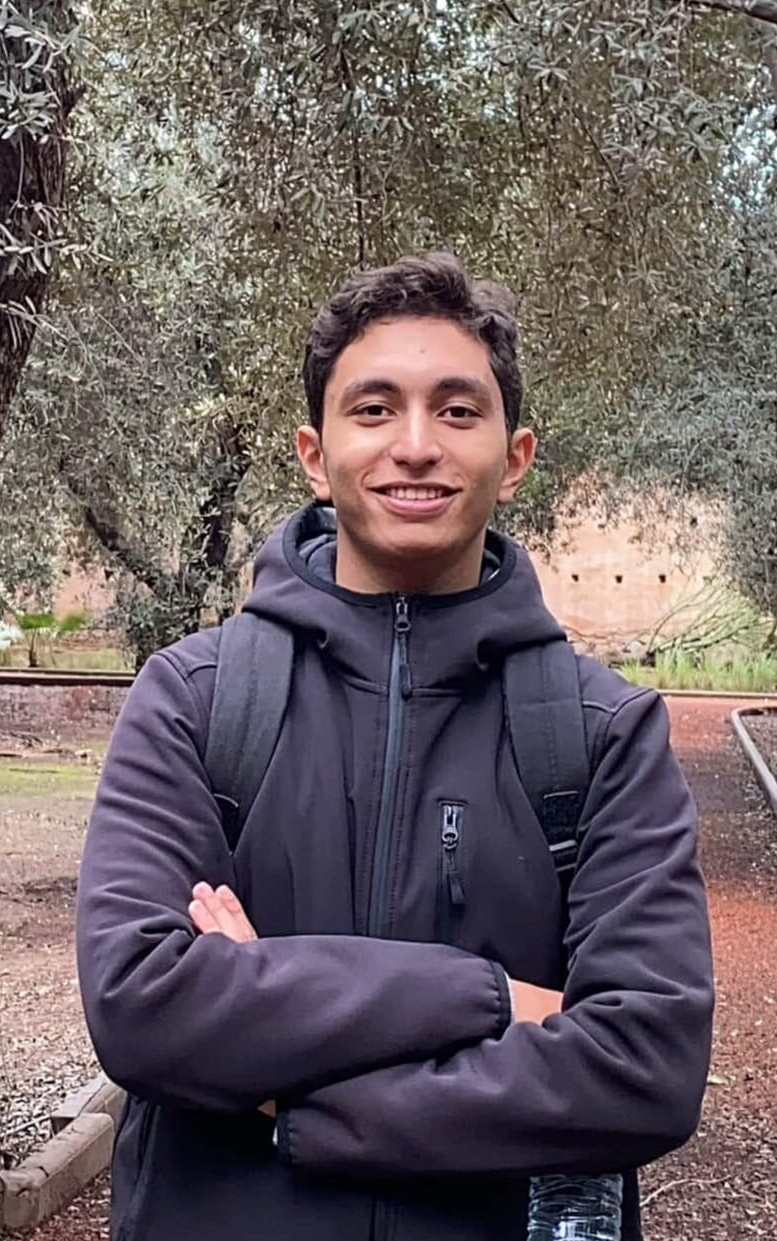
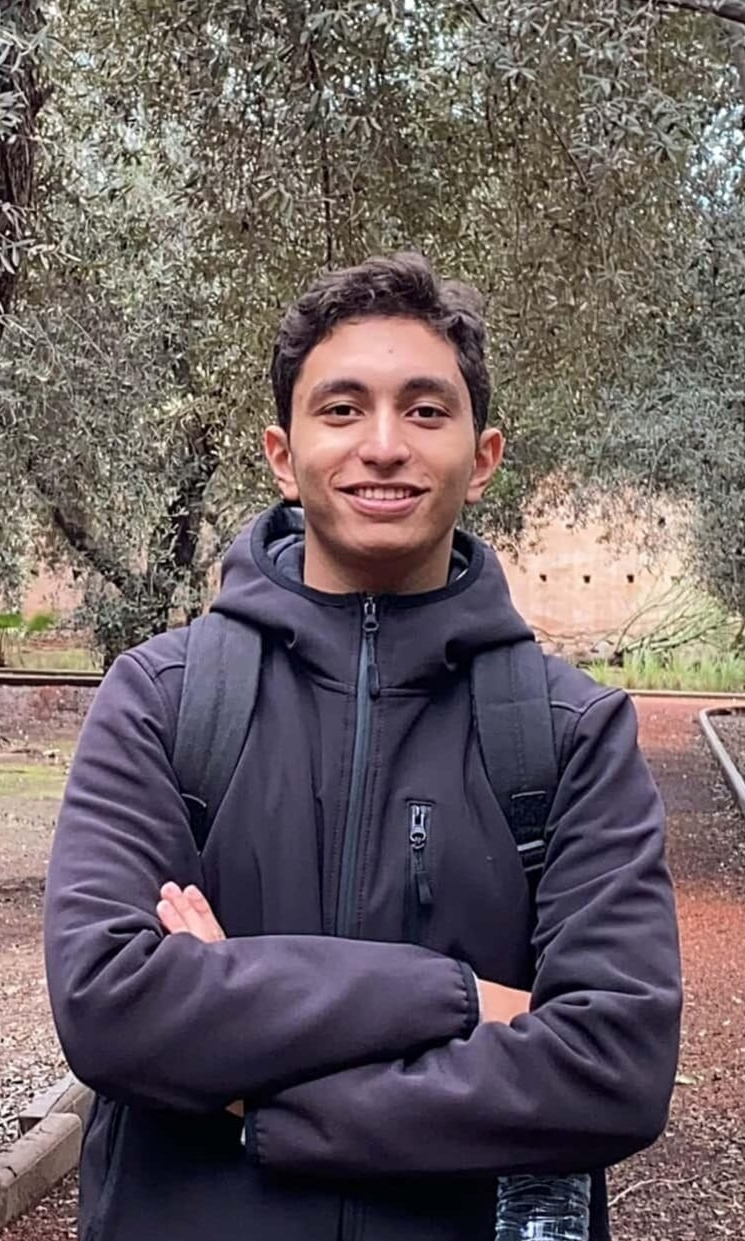
Changed some data

diff --git a/src/data/portfolioData.ts b/src/data/portfolioData.ts
@@ -15,7 +15,7 @@ export const portfolioData: PortfolioData = {
             "CTF Player",
             "Open-source Contributor"
         ],
-        profilePicture: "/assets/pictures/picture1.png",
+        profilePicture: "/assets/pictures/sbai.jpeg",
         resume: "/assets/resume/resume.pdf"
     },
     education: [
@@ -52,7 +52,7 @@ export const portfolioData: PortfolioData = {
         security: ["Metasploit", "Nmap", "Burp Suite"],
         operatingSystems: ["Windows", "Linux"],
         design: ["Merise", "UML"],
-        virtualization: ["VirtualBox", "VMware"],
+        virtualization: ["VirtualBox", "VMware", "QEMU"],
         vcs: ["Git", "GitHub"],
         gameDev: ["SDL", "Raylib"]
     },

diff --git a/src/sections/Hero.tsx b/src/sections/Hero.tsx
@@ -49,7 +49,7 @@ export const Hero = () => {
                     <img
                         src={profilePicture}
                         alt={name}
-                        className="w-40 h-40 md:w-48 md:h-48 rounded-full border border-border object-cover transition-all duration-500"
+                        className="w-48 h-48 md:w-64 md:h-64 rounded-full border border-border object-cover transition-all duration-500"
                     />
                 </div>
             )}
